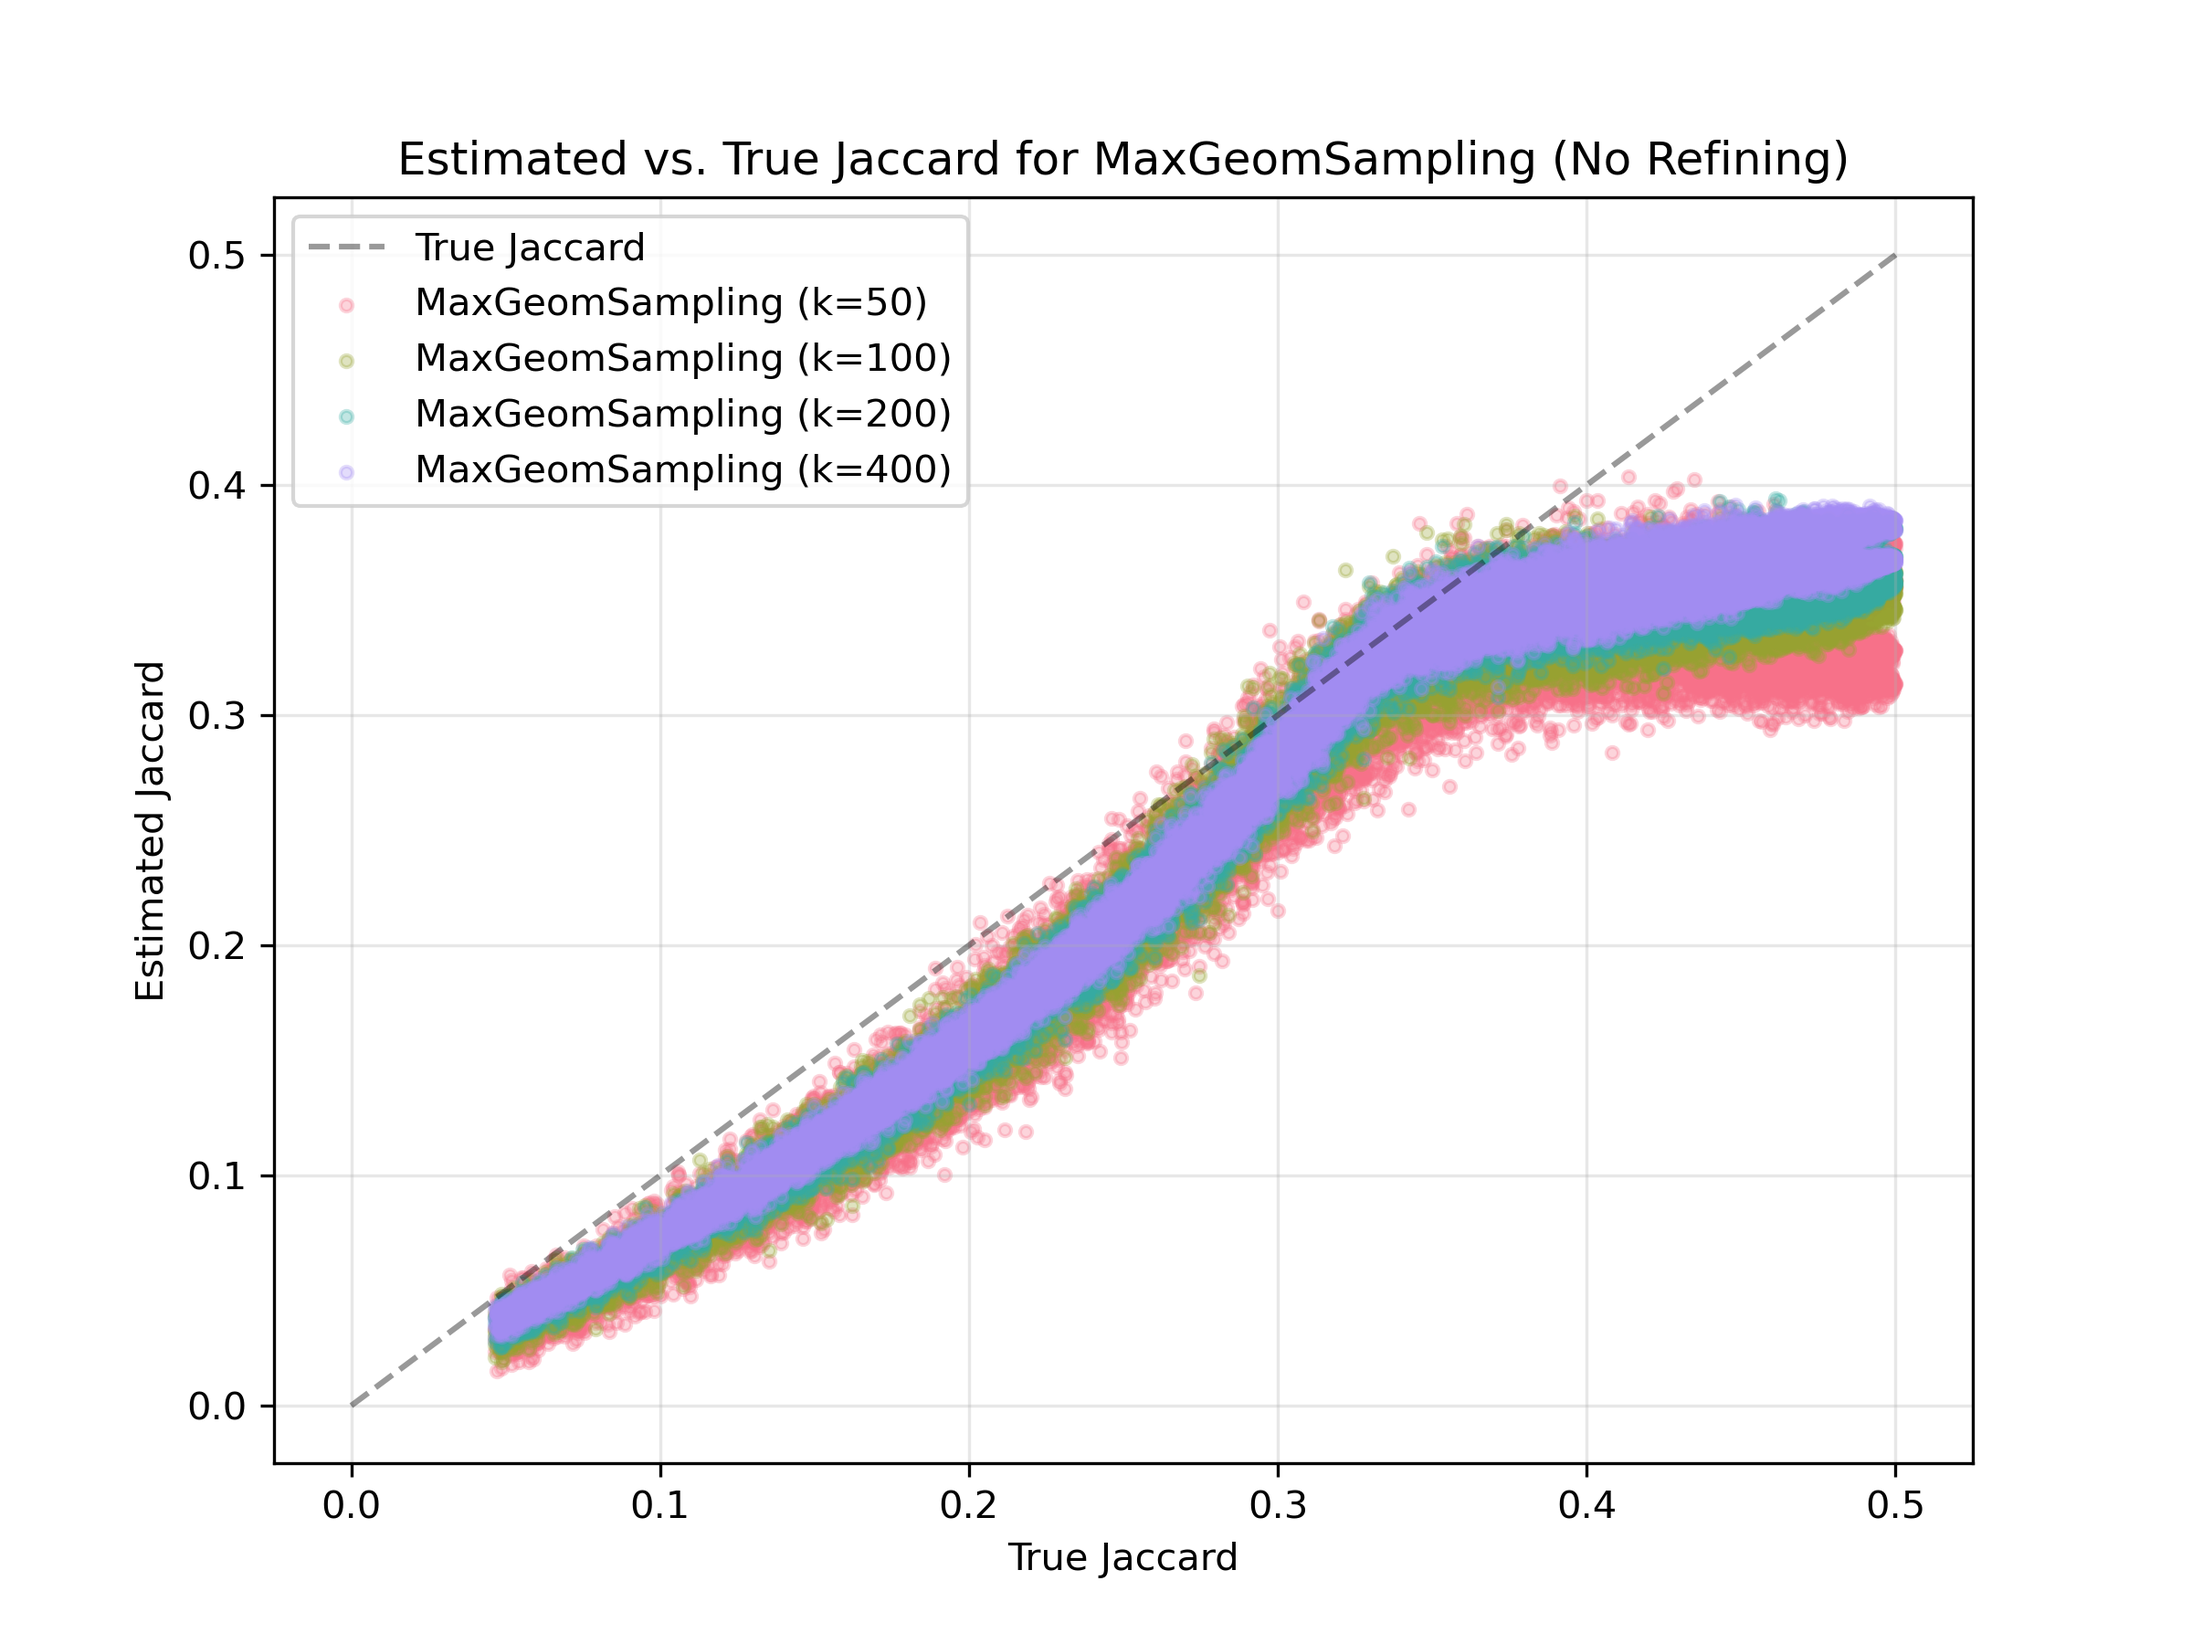
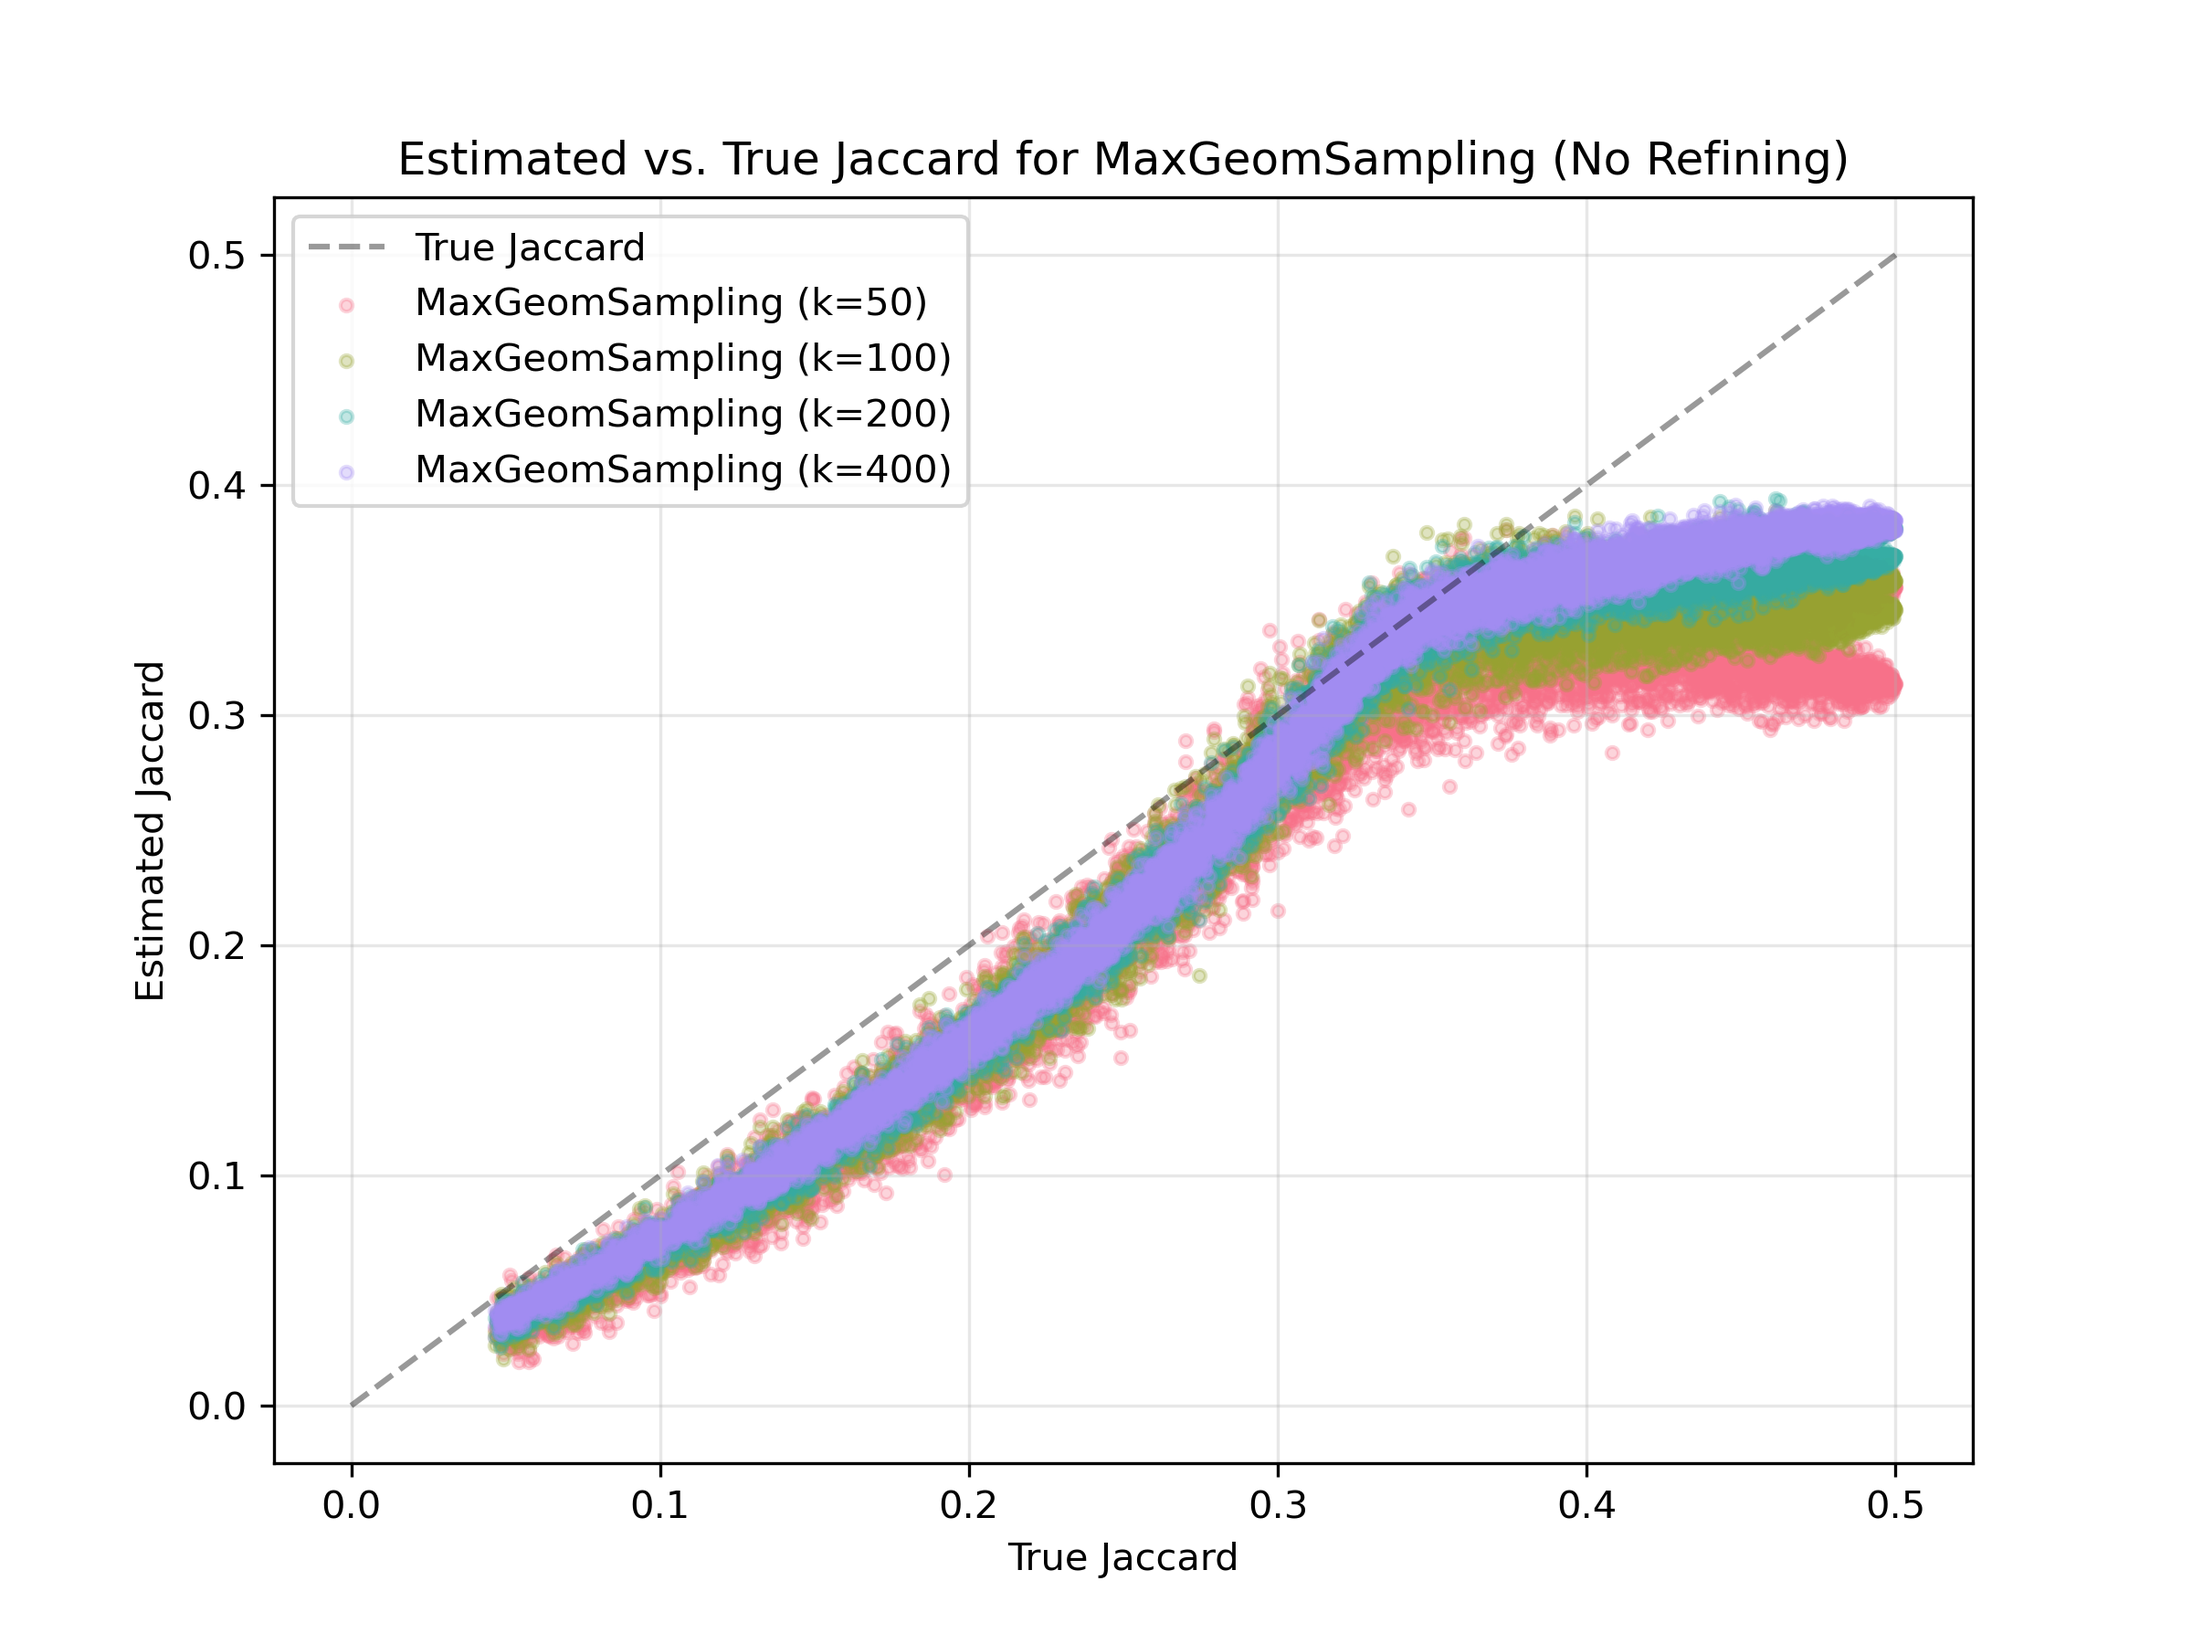
updated plots

Changed region(s): [[0.2188, 0.28, 0.875, 0.84]]

diff --git a/scripts/plot_accuracy_jaccard_no_refining.py b/scripts/plot_accuracy_jaccard_no_refining.py
@@ -10,6 +10,11 @@ if __name__ == "__main__":
     df = pd.read_csv(results_file, sep='\t', index_col=False)
     # columns: Method, Parameter, Len_Set2. True_Jaccard, Estimated_Jaccard
     
+    # filter some data from the df as follows: keep row 1,2, discard row 3,4,5. Then repeat
+    # this is to reduce the number of points plotted, making the plot less dense and more readable
+    mask = np.arange(len(df)) % 5 < 2
+    df = df[mask]
+    
     # plot true jaccard vs estimated jaccard for each method and parameter
     # method names: MGS, alpha-MGS. each method has four parameters
     methods = ['MGS']
